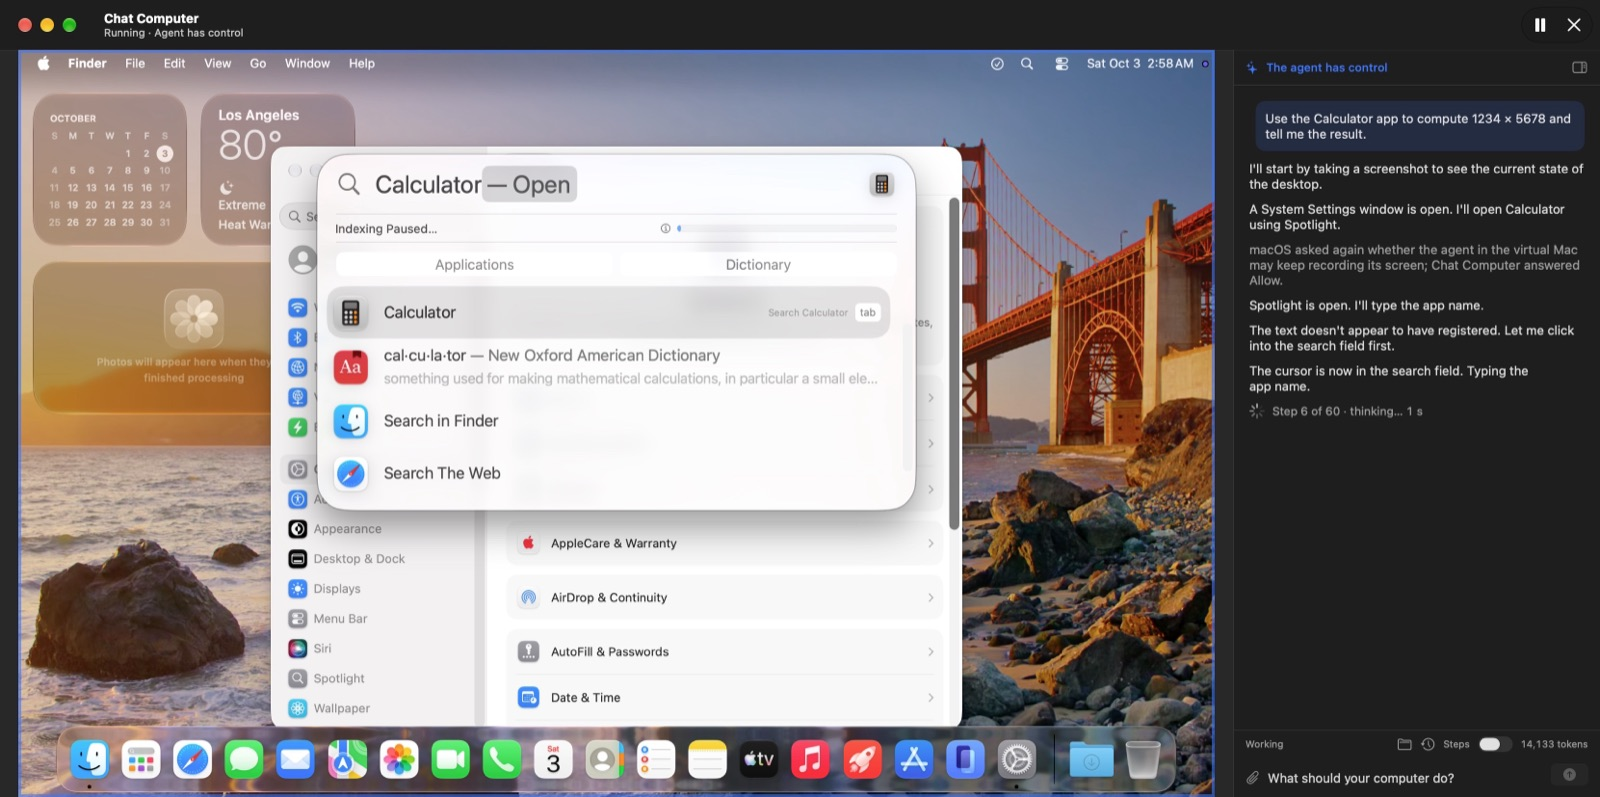
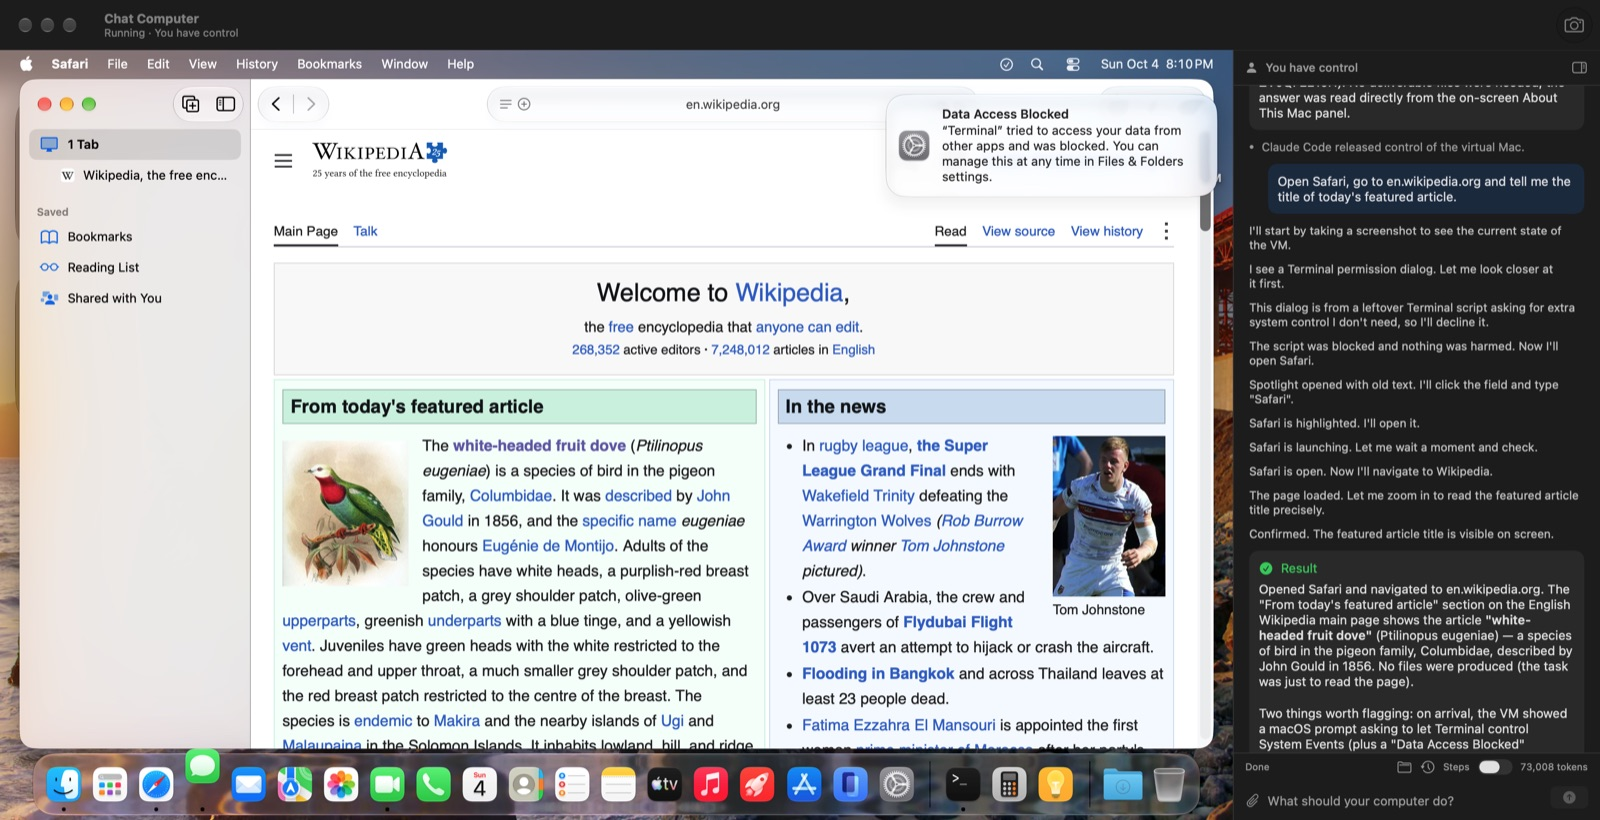
New hero screenshot from 0.9.0

diff --git a/index.html b/index.html
@@ -52,8 +52,8 @@
 
     <div class="stage reveal" id="stage">
       <div class="frame">
-        <div class="frame-bar"><i></i><i></i><i></i><span>Chat Computer — Running · Agent has control</span></div>
-        <img src="assets/ui-main-task.jpg" alt="Chat Computer: the virtual Mac on the left, the chat with the agent on the right" width="1600" height="798">
+        <div class="frame-bar"><i></i><i></i><i></i><span>Chat Computer — Running · You have control</span></div>
+        <img src="assets/ui-main-task.jpg" alt="Chat Computer: the virtual Mac on the left, the chat with the agent on the right" width="1600" height="820">
         <div class="scan" aria-hidden="true"></div>
       </div>
       <div class="hud h1"><span class="led"></span><span data-i18n="hud.control">Agent has control</span></div>
